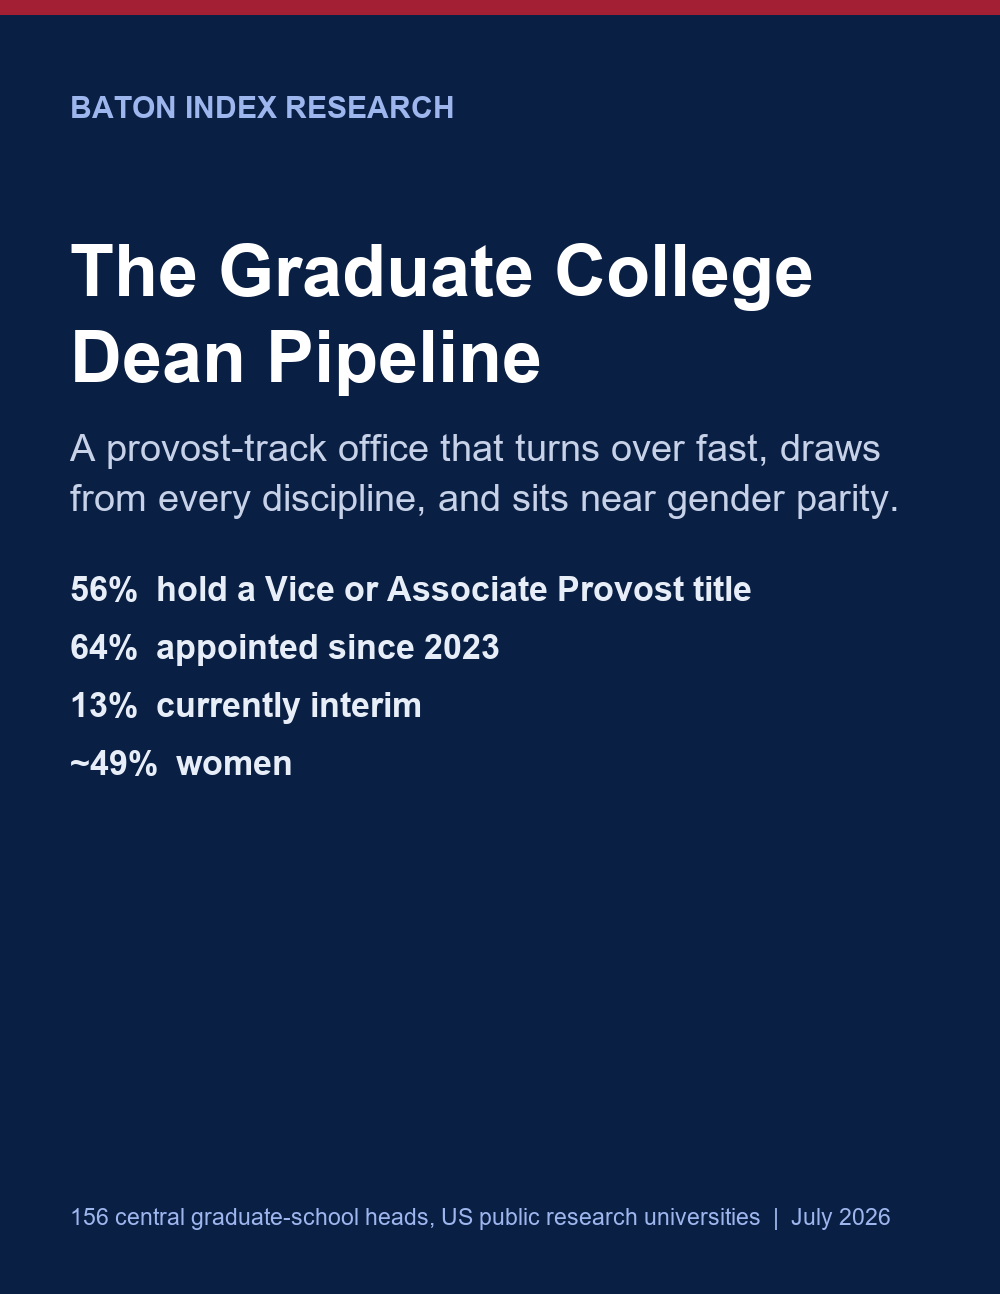
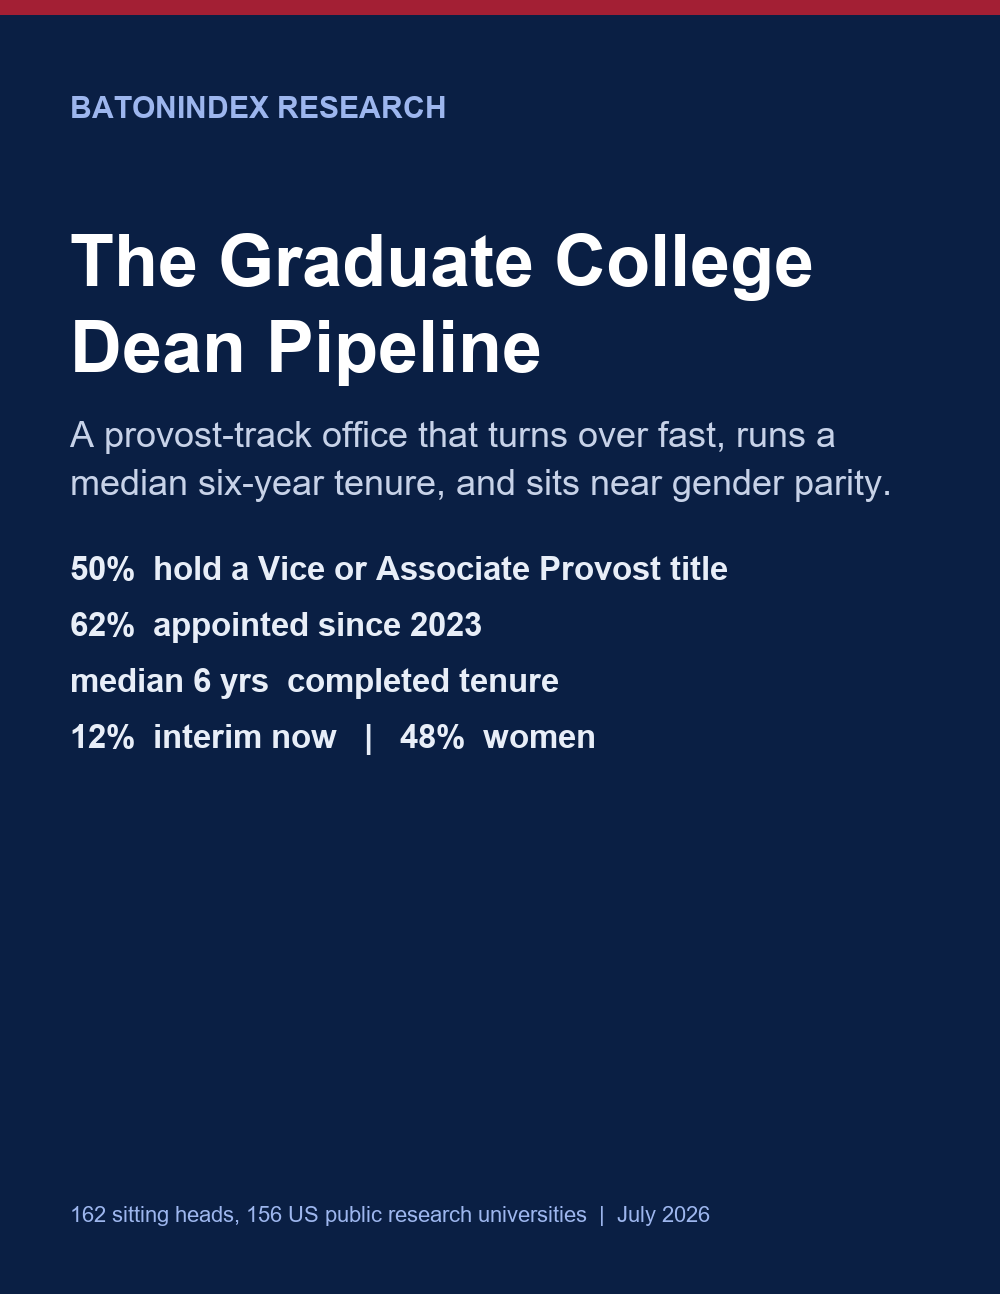
@ Insights: rewrite Graduate College brief with charts; BatonIndex one word
- Rewrite the Graduate College Dean Pipeline brief on the expanded data
  (162 sitting heads, West succession + career paths). Adds three branded
  charts: completed-tenure histogram (median 6 yrs, n=85), appointment-year
  recency, and a signature-signals bar. Refreshes the Insights card copy.
  Charts are now the norm for BatonIndex briefs.
- Normalize the brand to one word (BatonIndex) across app copy, and fix two
  em-dashes in email subjects.

@

diff --git a/artifacts/dean-dashboard/src/components/Insights.tsx b/artifacts/dean-dashboard/src/components/Insights.tsx
@@ -1,5 +1,5 @@
 /**
- * Insights — gated research-brief downloads that signal Baton Index's analytical
+ * Insights — gated research-brief downloads that signal BatonIndex's analytical
  * depth to search professionals. One email unlocks every brief. The email step is
  * a soft marketing gate (lead capture), not access control: it POSTs to
  * /api/insights-lead and fails open on network error so a demo never dead-ends.
@@ -37,14 +37,14 @@ const REPORTS: Report[] = [
     id: "grad-pipeline",
     title: "The Graduate College Dean Pipeline",
     subtitle:
-      "A provost-track office that turns over fast, draws from every discipline, and sits near gender parity. 156 central graduate-school heads at US public research universities.",
+      "A provost-track office that turns over fast (median six-year tenure), draws from every discipline, and sits near gender parity. 162 sitting central graduate-school heads across 156 US public research universities, with charts.",
     cover: "/insights/cover-grad-pipeline.png",
     pdf: "/insights/baton-graduate-college-pipeline-brief.pdf",
-    pages: 2,
+    pages: 3,
     findings: [
-      "It is a provost office, not a college deanship: about 56% carry a Vice Provost or Associate Provost title. Screen it like a provost search.",
-      "The seat turns over fast: about 64% of current heads were appointed since 2023, and roughly 13% are interim right now, the most churn-heavy line we track.",
-      "The pool is discipline-agnostic and near gender parity (about 49% women), because the office spans every graduate program rather than one field.",
+      "The seat runs short: across 85 completed tenures the median is just 6 years, and 62% of sitting heads were appointed since 2023, the most churn-heavy line we track.",
+      "It is a provost office, not a college deanship: about 50% carry a Vice Provost or Associate Provost title. Screen it like a provost search.",
+      "The pool is discipline-agnostic and near gender parity (about 48% women), because the office spans every graduate program rather than one field.",
     ],
   },
   {
@@ -118,7 +118,7 @@ export default function Insights() {
   return (
     <div className="max-w-[1000px] mx-auto py-1">
       <div className="text-[11px] font-semibold uppercase tracking-wider text-[#A31F34]">
-        Baton Index Research
+        BatonIndex Research
       </div>
       <h2 className="text-2xl font-bold text-foreground mt-1 leading-tight">Research briefs</h2>
       <p className="text-muted-foreground mt-1.5 leading-relaxed text-sm">
@@ -153,7 +153,7 @@ export default function Insights() {
           </div>
           {err && <p className="text-xs text-[#A31F34] mt-2">{err}</p>}
           <p className="text-[11px] text-muted-foreground mt-2">
-            No list-spam. We'll only reach out about Baton Index.
+            No list-spam. We'll only reach out about BatonIndex.
           </p>
         </form>
       )}

diff --git a/artifacts/dean-dashboard/src/components/AboutDialog.tsx b/artifacts/dean-dashboard/src/components/AboutDialog.tsx
@@ -22,7 +22,7 @@ export default function AboutDialog({ onClose, onContact }: { onClose: () => voi
       className="fixed inset-0 z-50 flex items-center justify-center bg-black/40 p-4"
       role="dialog"
       aria-modal="true"
-      aria-label="About Baton Index"
+      aria-label="About BatonIndex"
       onClick={onClose}
     >
       <div
@@ -30,7 +30,7 @@ export default function AboutDialog({ onClose, onContact }: { onClose: () => voi
         onClick={(e) => e.stopPropagation()}
       >
         <div className="flex items-start justify-between px-6 pt-6">
-          <h2 className="text-lg font-bold">About Baton Index</h2>
+          <h2 className="text-lg font-bold">About BatonIndex</h2>
           <button
             onClick={onClose}
             aria-label="Close"
@@ -42,7 +42,7 @@ export default function AboutDialog({ onClose, onContact }: { onClose: () => voi
 
         <div className="px-6 py-4 space-y-5 text-sm leading-relaxed">
           <p className="text-muted-foreground">
-            Baton Index is a research project tracking leadership succession across
+            BatonIndex is a research project tracking leadership succession across
             U.S. higher education — {" "}
             <span className="font-semibold text-foreground">10,000+ appointments</span> at
             more than 1,800 schools, compiled from primary sources.
@@ -88,7 +88,7 @@ export default function AboutDialog({ onClose, onContact }: { onClose: () => voi
               Every record is assembled from primary sources — official university
               announcements, institutional bios, and public filings — then
               cross-checked. The data is refreshed continuously; the "updated" date
-              in the header reflects the latest deployment. Baton Index is
+              in the header reflects the latest deployment. BatonIndex is
               independent: it is not affiliated with any search firm, and has no
               stake in who is placed where.
             </p>

diff --git a/artifacts/dean-dashboard/src/components/LockedGate.tsx b/artifacts/dean-dashboard/src/components/LockedGate.tsx
@@ -12,7 +12,7 @@ function Shell({ children }: { children: React.ReactNode }) {
       <div className="flex-1 flex items-center justify-center px-4 py-10">
         <div className="w-full max-w-md">
           <div className="flex flex-col items-center text-center">
-            <img src="/logo.svg" alt="Baton Index" width={72} height={72} className="h-18 w-18 mb-4" />
+            <img src="/logo.svg" alt="BatonIndex" width={72} height={72} className="h-18 w-18 mb-4" />
             <p
               className="text-[22px] leading-tight text-[#011F5B] mb-6"
               style={{ fontFamily: "'EB Garamond', Garamond, Georgia, serif", fontWeight: 500 }}
@@ -54,7 +54,7 @@ export function LockedLanding() {
       <div className="bg-card border border-border rounded-xl shadow-sm p-6">
         <h1 className="text-lg font-bold">Private preview</h1>
         <p className="text-sm text-muted-foreground mt-1">
-          Baton Index is shared with selected search firms under a pilot. Enter the access
+          BatonIndex is shared with selected search firms under a pilot. Enter the access
           code from your invitation to continue.
         </p>
         <form onSubmit={onSubmit} className="mt-4 space-y-2">

diff --git a/artifacts/dean-dashboard/src/components/FreeTierMeter.tsx b/artifacts/dean-dashboard/src/components/FreeTierMeter.tsx
@@ -186,7 +186,7 @@ export function Paywall({ meter }: { meter: FreeMeter }) {
               const external = !!p.url;
               const href = external
                 ? p.url
-                : `mailto:${CONTACT}?subject=${encodeURIComponent("Baton Index — " + p.name)}`;
+                : `mailto:${CONTACT}?subject=${encodeURIComponent("BatonIndex - " + p.name)}`;
               return (
                 <div
                   key={p.key}
@@ -227,7 +227,7 @@ export function Paywall({ meter }: { meter: FreeMeter }) {
 
           <p className="text-[11px] text-muted-foreground mt-3 text-center">
             Access activates shortly after checkout — paste the access link you receive below. Need all 12 indices or a firm plan?{" "}
-            <a href={`mailto:${CONTACT}?subject=${encodeURIComponent("Baton Index — full access / firm plan")}`} className="text-[#011F5B] dark:text-[#AFC4E8] font-medium underline underline-offset-2">
+            <a href={`mailto:${CONTACT}?subject=${encodeURIComponent("BatonIndex - full access / firm plan")}`} className="text-[#011F5B] dark:text-[#AFC4E8] font-medium underline underline-offset-2">
               Contact us
             </a>.
           </p>

diff --git a/artifacts/dean-dashboard/src/App.tsx b/artifacts/dean-dashboard/src/App.tsx
@@ -132,7 +132,7 @@ function AppInner() {
                   <h1 className="leading-none shrink-0">
                     <img
                       src="/logo.svg"
-                      alt="Baton Index"
+                      alt="BatonIndex"
                       width={64}
                       height={64}
                       className="h-16 w-16 block"
@@ -315,7 +315,7 @@ function AppInner() {
         </main>
         <footer className="text-right pr-6 pb-4 pt-8">
           <p className="text-xs text-muted-foreground/60">
-            &copy; 2026 Baton Index &middot; Leadership succession data for higher education
+            &copy; 2026 BatonIndex &middot; Leadership succession data for higher education
             <span className="mx-1.5">&middot;</span>
             <button onClick={() => setAboutOpen(true)} className="underline underline-offset-2 hover:text-foreground">
               About

diff --git a/artifacts/dean-dashboard/src/components/ContactDialog.tsx b/artifacts/dean-dashboard/src/components/ContactDialog.tsx
@@ -51,7 +51,7 @@ export default function ContactDialog({ onClose }: { onClose: () => void }) {
       } else {
         const body = `${message}\n\n--\n${name}${firm ? `, ${firm}` : ""}\n${email}`;
         window.location.href =
-          `mailto:${EMAIL}?subject=${encodeURIComponent(`Baton Index enquiry -- ${name || "website"}`)}` +
+          `mailto:${EMAIL}?subject=${encodeURIComponent(`BatonIndex enquiry -- ${name || "website"}`)}` +
           `&body=${encodeURIComponent(body)}`;
         setState("sent");
       }
@@ -69,7 +69,7 @@ export default function ContactDialog({ onClose }: { onClose: () => void }) {
       className="fixed inset-0 z-50 flex items-center justify-center bg-black/40 p-4"
       role="dialog"
       aria-modal="true"
-      aria-label="Contact Baton Index"
+      aria-label="Contact BatonIndex"
       onClick={onClose}
     >
       <div
